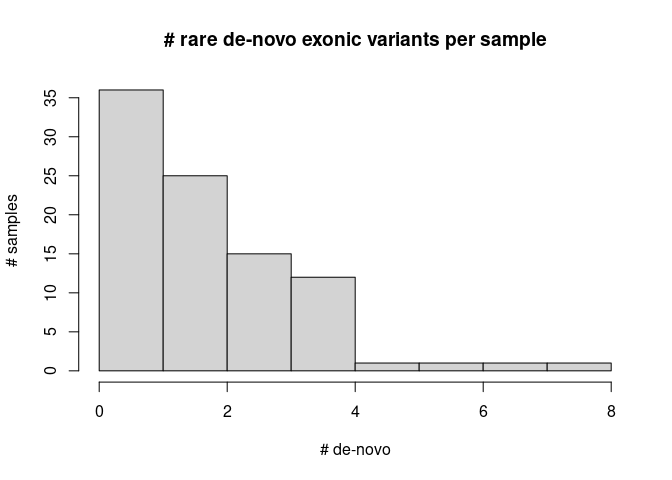
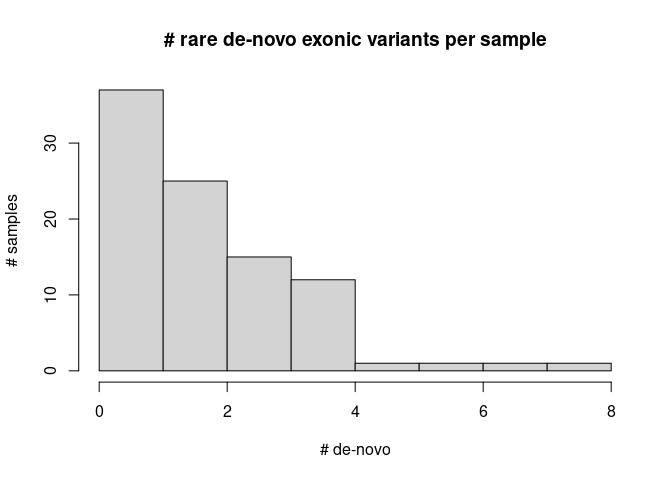
updated denovo markdown

diff --git a/denovo/denovo_consequence.md b/denovo/denovo_consequence.md
@@ -1,93 +1,75 @@
-``` r
-library(dplyr)
-```
+## De-novo variants
 
-    ## 
-    ## Attaching package: 'dplyr'
+Analysis of de-novo variants from 93 child-parents trios
 
-    ## The following objects are masked from 'package:stats':
-    ## 
-    ##     filter, lag
+### Impact of the variants
 
-    ## The following objects are masked from 'package:base':
-    ## 
-    ##     intersect, setdiff, setequal, union
+Genic variants fall into LOW, MODERATE, and HIGH categories
 
-``` r
-library(knitr)
-t<-read.table('denovo_consequences_per_sample.tsv', stringsAsFactors = T)
-colnames(t)<-c('sample', 'conseq','impact','symbol')
-t['coding'] = t$impact!='MODIFIER'
-```
-
-``` r
-kable(t %>% count(impact))
-```
-
-| impact   |      n|
+| impact   |     n |
 |:---------|------:|
-| HIGH     |      8|
-| LOW      |     72|
-| MODERATE |    113|
-| MODIFIER |  31653|
+| HIGH     |     8 |
+| LOW      |    72 |
+| MODERATE |   114 |
+| MODIFIER | 32045 |
 
-``` r
-kable(t %>% count(conseq))
-```
+Counts per sample
 
-| conseq                                                                   |      n|
-|:-------------------------------------------------------------------------|------:|
-| 3\_prime\_UTR\_variant                                                   |    177|
-| 3\_prime\_UTR\_variant,NMD\_transcript\_variant                          |      3|
-| 5\_prime\_UTR\_variant                                                   |     32|
-| downstream\_gene\_variant                                                |   2131|
-| intergenic\_variant                                                      |  11185|
-| intron\_variant                                                          |  10222|
-| intron\_variant,NMD\_transcript\_variant                                 |    152|
-| intron\_variant,non\_coding\_transcript\_variant                         |   4353|
-| missense\_variant                                                        |    112|
-| missense\_variant,splice\_region\_variant                                |      1|
-| non\_coding\_transcript\_exon\_variant                                   |    251|
-| regulatory\_region\_variant                                              |    874|
-| splice\_acceptor\_variant                                                |      1|
-| splice\_acceptor\_variant,non\_coding\_transcript\_variant               |      1|
-| splice\_donor\_variant                                                   |      1|
-| splice\_donor\_variant,non\_coding\_transcript\_variant                  |      1|
-| splice\_region\_variant,5\_prime\_UTR\_variant                           |      1|
-| splice\_region\_variant,intron\_variant                                  |     12|
-| splice\_region\_variant,intron\_variant,non\_coding\_transcript\_variant |      5|
-| splice\_region\_variant,synonymous\_variant                              |      1|
-| stop\_gained                                                             |      4|
-| synonymous\_variant                                                      |     53|
-| TF\_binding\_site\_variant                                               |     74|
-| upstream\_gene\_variant                                                  |   2199|
+| impact   |        mean | min | max |
+|:---------|------------:|----:|----:|
+| HIGH     |   0.0860215 |   0 |   1 |
+| LOW      |   0.7741935 |   0 |   3 |
+| MODERATE |   1.2258065 |   0 |   6 |
+| MODIFIER | 344.5698925 | 280 | 456 |
 
-Number of rare coding de-novo per-sample
+### Consequence counts
 
-``` r
-t[t$coding,] %>% count(sample, .drop=F) %>% summarize(mean=mean(n), min=min(n), max=max(n))
-```
+| conseq                                                             |     n |
+|:-------------------------------------------------------------------|------:|
+| 3_prime_UTR_variant                                                |   180 |
+| 3_prime_UTR_variant,NMD_transcript_variant                         |     3 |
+| 5_prime_UTR_variant                                                |    32 |
+| downstream_gene_variant                                            |  2147 |
+| intergenic_variant                                                 | 11338 |
+| intron_variant                                                     | 10357 |
+| intron_variant,NMD_transcript_variant                              |   154 |
+| intron_variant,non_coding_transcript_variant                       |  4407 |
+| missense_variant                                                   |   113 |
+| missense_variant,splice_region_variant                             |     1 |
+| non_coding_transcript_exon_variant                                 |   255 |
+| regulatory_region_variant                                          |   881 |
+| splice_acceptor_variant                                            |     1 |
+| splice_acceptor_variant,non_coding_transcript_variant              |     1 |
+| splice_donor_variant                                               |     1 |
+| splice_donor_variant,non_coding_transcript_variant                 |     1 |
+| splice_region_variant,5_prime_UTR_variant                          |     1 |
+| splice_region_variant,intron_variant                               |    12 |
+| splice_region_variant,intron_variant,non_coding_transcript_variant |     5 |
+| splice_region_variant,synonymous_variant                           |     1 |
+| stop_gained                                                        |     4 |
+| synonymous_variant                                                 |    53 |
+| TF_binding_site_variant                                            |    75 |
+| upstream_gene_variant                                              |  2216 |
 
-    ##       mean min max
-    ## 1 2.097826   0   8
+| conseq                                                             |   n |
+|:-------------------------------------------------------------------|----:|
+| missense_variant                                                   | 113 |
+| missense_variant,splice_region_variant                             |   1 |
+| splice_acceptor_variant                                            |   1 |
+| splice_acceptor_variant,non_coding_transcript_variant              |   1 |
+| splice_donor_variant                                               |   1 |
+| splice_donor_variant,non_coding_transcript_variant                 |   1 |
+| splice_region_variant,5_prime_UTR_variant                          |   1 |
+| splice_region_variant,intron_variant                               |  12 |
+| splice_region_variant,intron_variant,non_coding_transcript_variant |   5 |
+| splice_region_variant,synonymous_variant                           |   1 |
+| stop_gained                                                        |   4 |
+| synonymous_variant                                                 |  53 |
 
-``` r
-hist((t[t$coding,] %>% count(sample, .drop=F))$n, 
-     main = '# rare de-novo exonic variants per sample',
-     xlab = '# de-novo', ylab='# samples')
-```
+### Rare coding de-novo per-sample
+
+|     mean | min | max |
+|---------:|----:|----:|
+| 2.086022 |   0 |   8 |
 
 ![](denovo_consequence_files/figure-markdown_github/coding.per.sample.hist-1.png)
-
-``` r
-kable(t %>% count(sample,impact, .drop=F) 
-        %>% group_by(impact) 
-        %>% summarize(mean=mean(n), min=min(n), max=max(n)))
-```
-
-| impact   |         mean|  min|  max|
-|:---------|------------:|----:|----:|
-| HIGH     |    0.0869565|    0|    1|
-| LOW      |    0.7826087|    0|    3|
-| MODERATE |    1.2282609|    0|    6|
-| MODIFIER |  344.0543478|  280|  456|
